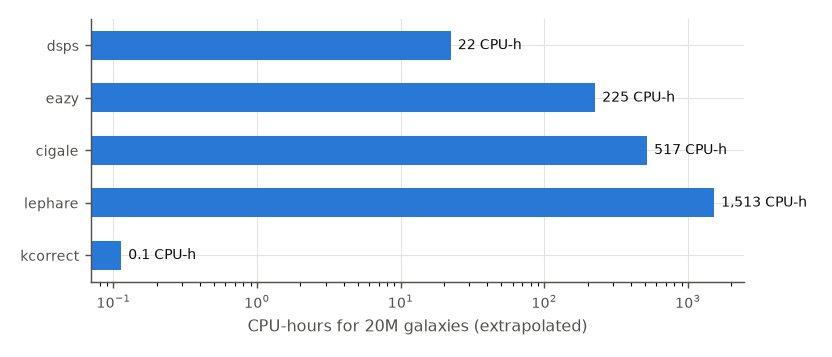
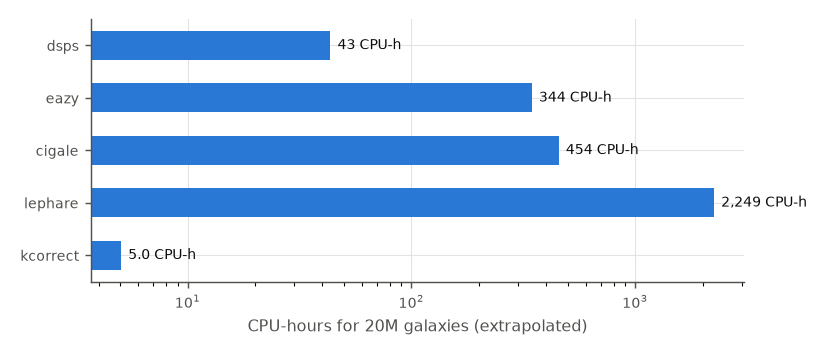
Benchmark rerun after the CIGALE error fix
CIGALE vs LePhare: median offset -0.016 dex (was -0.042), NMAD 0.066
(was 0.097), blue-galaxy offset -0.029 (was -0.092). It now also gives
Mr (+0.004 mag vs LePhare). The other codes are unchanged. Timings are
from a loaded laptop; the report notes the idle and CC timings.

diff --git a/benchmarks/results/local_strip/report.md b/benchmarks/results/local_strip/report.md
@@ -4,13 +4,19 @@
 
 ## Cost
 
+Rerun on 2026-10-05 after the CIGALE fix (`additionalerror` = 0: the same error floor as the other
+codes). The laptop was shared and loaded (load ≈ 26 on 24 cores, 8 threads per code), and kcorrect
+now includes its 20 Monte Carlo realisations. Idle-machine timings from the first run, per 10k
+galaxies: LePhare 118 s on 23 threads, CIGALE 58 s on 16, eazy 25 s on 16, DSPS 1.7 s, kcorrect
+0.2 s without Monte Carlo. On CC-IN2P3, LePhare took 52 min for 97.5k objects on 16 cores.
+
 | code | init [s] | fit [s] | threads | ms / galaxy / thread | CPU-h for 20M |
 |---|---|---|---|---|---|
-| kcorrect | 2.6 | 0.2 | 1 | 0.02 | 0.1 |
-| lephare | 0.3 | 118.4 | 23 | 272.43 | 1,513 |
-| cigale | 0.6 | 58.1 | 16 | 93.01 | 517 |
-| eazy | 0.2 | 25.3 | 16 | 40.44 | 225 |
-| dsps | 3.5 | 1.7 | 24 | 4.00 | 22 |
+| kcorrect | 6.8 | 9.1 | 1 | 0.91 | 5.0 |
+| lephare | 0.8 | 506.1 | 8 | 404.85 | 2,249 |
+| cigale | 2.1 | 102.3 | 8 | 81.81 | 454 |
+| eazy | 0.7 | 77.5 | 8 | 62.00 | 344 |
+| dsps | 14.9 | 3.3 | 24 | 7.81 | 43 |
 
 ## Agreement with the reference
 
@@ -20,7 +26,7 @@
 |---|---|---|---|---|---|---|---|---|
 | kcorrect | 0.00 | 4.05 | +0.043 | 0.087 | +0.036 | +0.016 | +0.122 | +0.004 |
 | lephare | 0.00 | 4.16 | +0.000 | 0.000 | +0.000 | +0.000 | +0.000 | +0.000 |
-| cigale | 0.02 | 0.44 | -0.042 | 0.097 | -0.039 | -0.028 | -0.092 | n/a |
+| cigale | 0.23 | 4.81 | -0.016 | 0.066 | -0.013 | -0.007 | -0.029 | +0.004 |
 | eazy | 0.00 | 8.66 | +0.030 | 0.089 | +0.023 | +0.009 | +0.122 | +0.003 |
 | dsps | 0.00 | 5.02 | +0.046 | 0.091 | +0.049 | +0.056 | +0.021 | -0.003 |
 
@@ -30,7 +36,7 @@ Median Δ in redshift bins:
 |---|---|---|---|---|---|---|
 | kcorrect | +0.114 | +0.048 | +0.026 | +0.027 | +0.048 | +0.070 |
 | lephare | +0.000 | +0.000 | +0.000 | +0.000 | +0.000 | +0.000 |
-| cigale | -0.063 | -0.055 | -0.049 | -0.024 | -0.018 | -0.042 |
+| cigale | -0.020 | -0.022 | -0.020 | -0.011 | +0.003 | +0.005 |
 | eazy | +0.137 | +0.040 | +0.012 | +0.009 | -0.007 | +0.032 |
 | dsps | +0.063 | +0.027 | +0.043 | +0.066 | +0.078 | +0.058 |
 
@@ -38,11 +44,11 @@ Median Δ in redshift bins:
 
 Refit of photo-z galaxies at BEST_Z ± BEST_Z_ERR: half the difference of the two log M*, i.e. the mass error from the photo-z alone.
 
-| code | N | median ½|Δ log M*| | 84th pct |
+| code | N | median ½\|Δ log M*\| | 84th pct |
 |---|---|---|---|
 | kcorrect | 1000 | 0.110 | 0.216 |
 | lephare | 994 | 0.094 | 0.210 |
-| cigale | 1000 | 0.065 | 0.158 |
+| cigale | 999 | 0.081 | 0.198 |
 | eazy | 993 | 0.086 | 0.197 |
 | dsps | 1000 | 0.077 | 0.212 |
 
@@ -54,7 +60,7 @@ Refit of photo-z galaxies at BEST_Z ± BEST_Z_ERR: half the difference of the tw
 |---|---|---|
 | kcorrect | +0.069 | 0.159 |
 | lephare | +0.030 | 0.090 |
-| cigale | +0.013 | 0.137 |
+| cigale | +0.049 | 0.124 |
 | eazy | +0.059 | 0.160 |
 | dsps | +0.108 | 0.118 |
 
